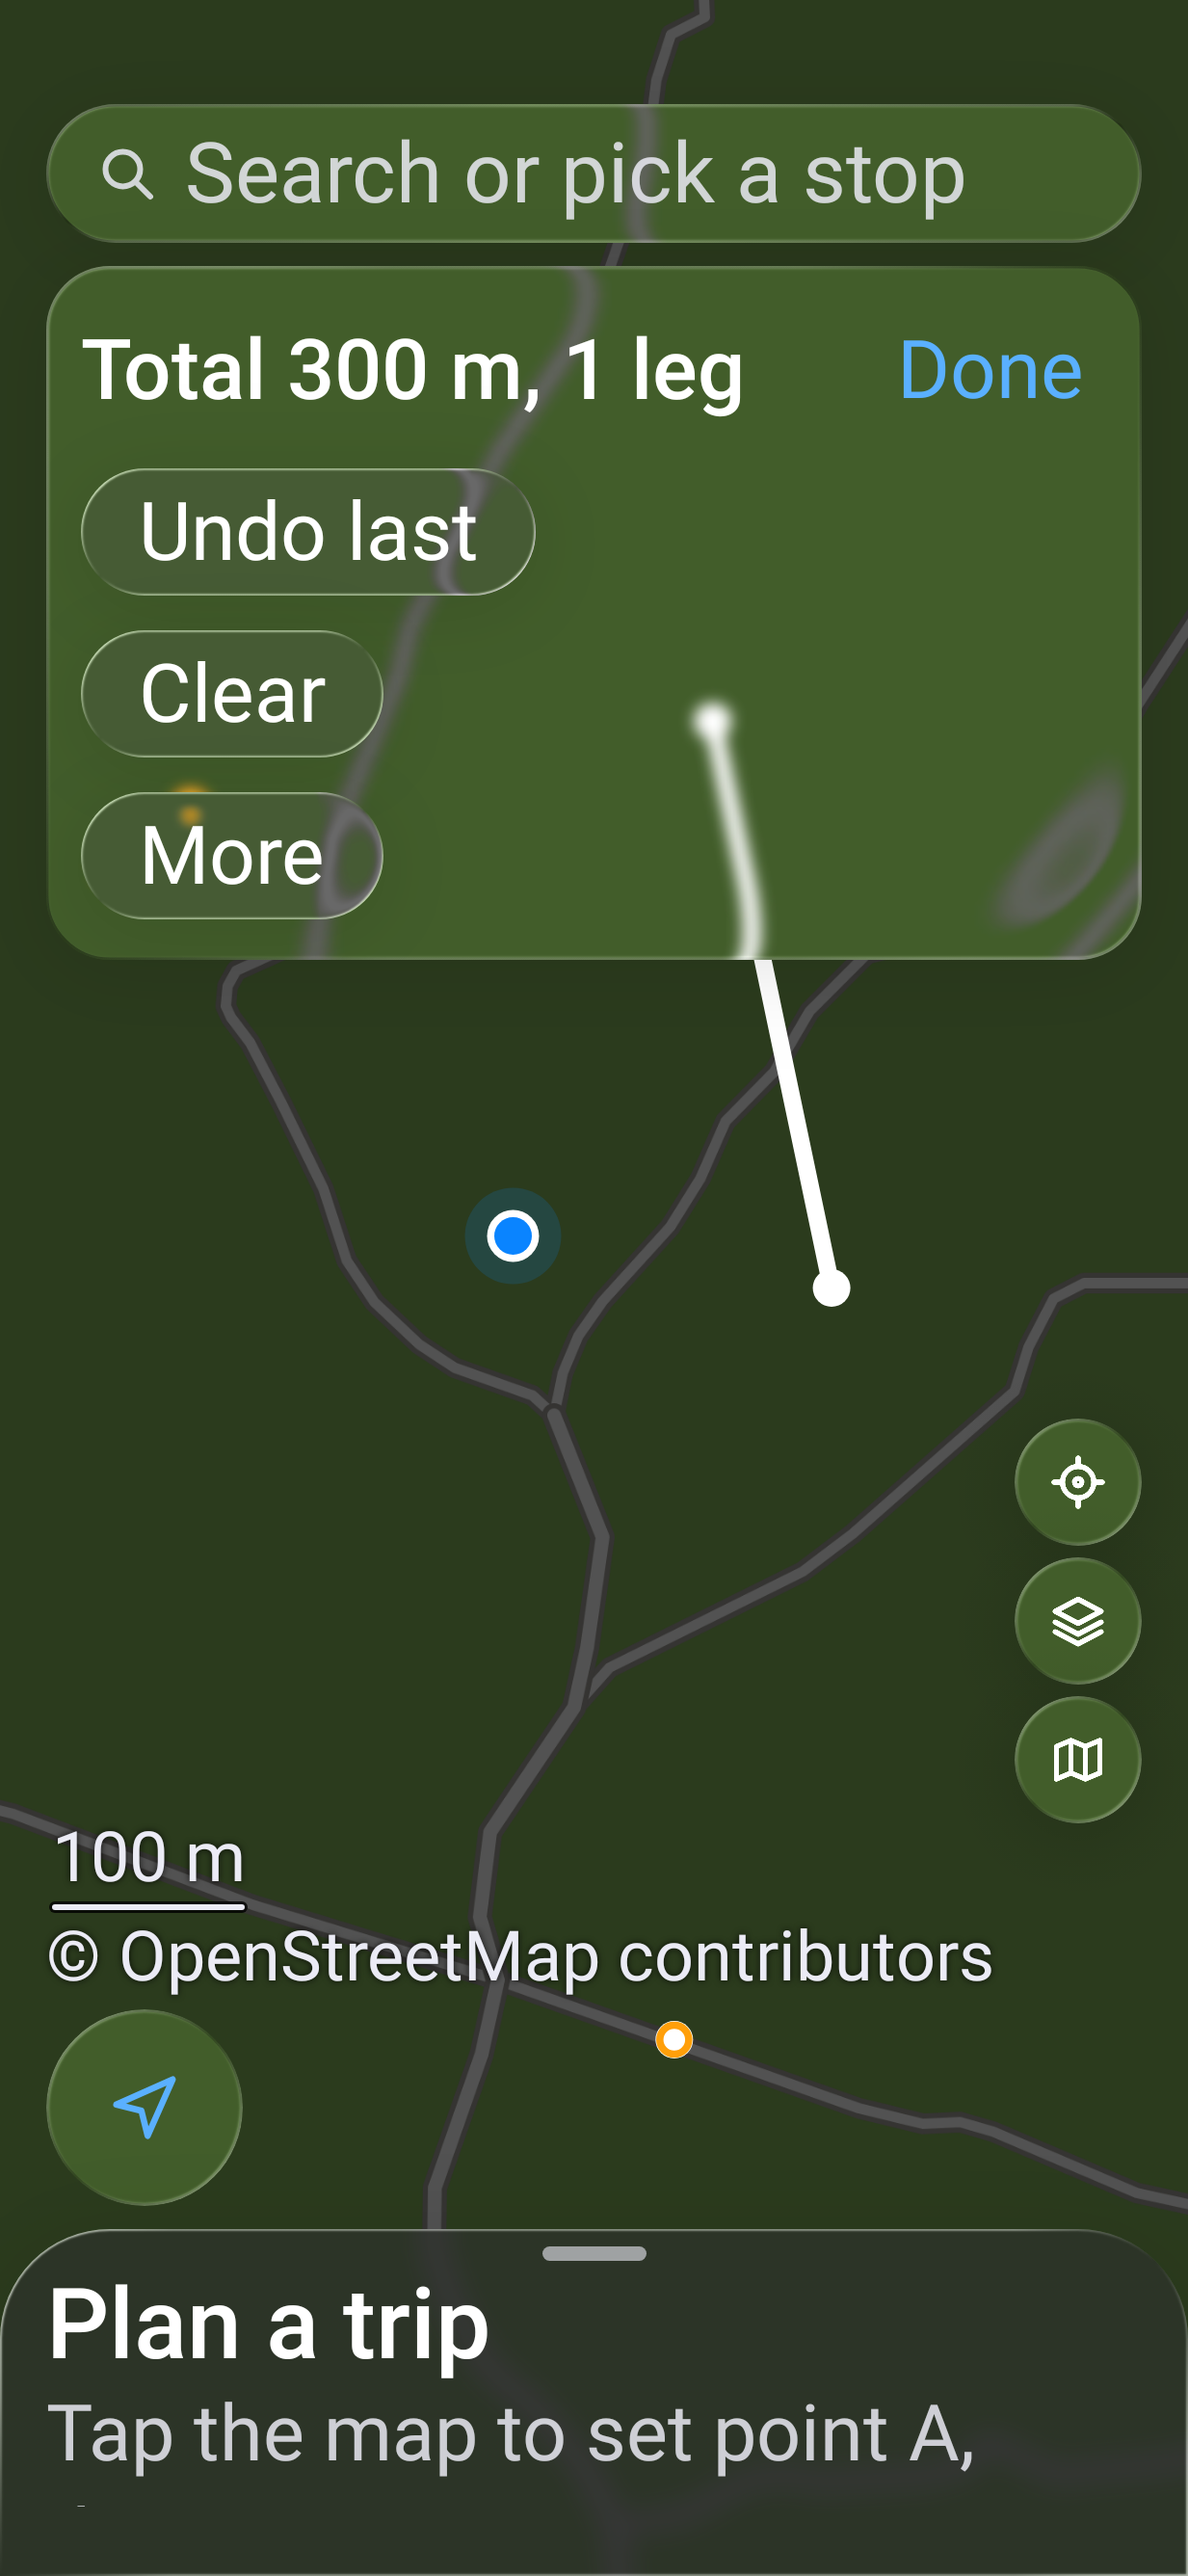
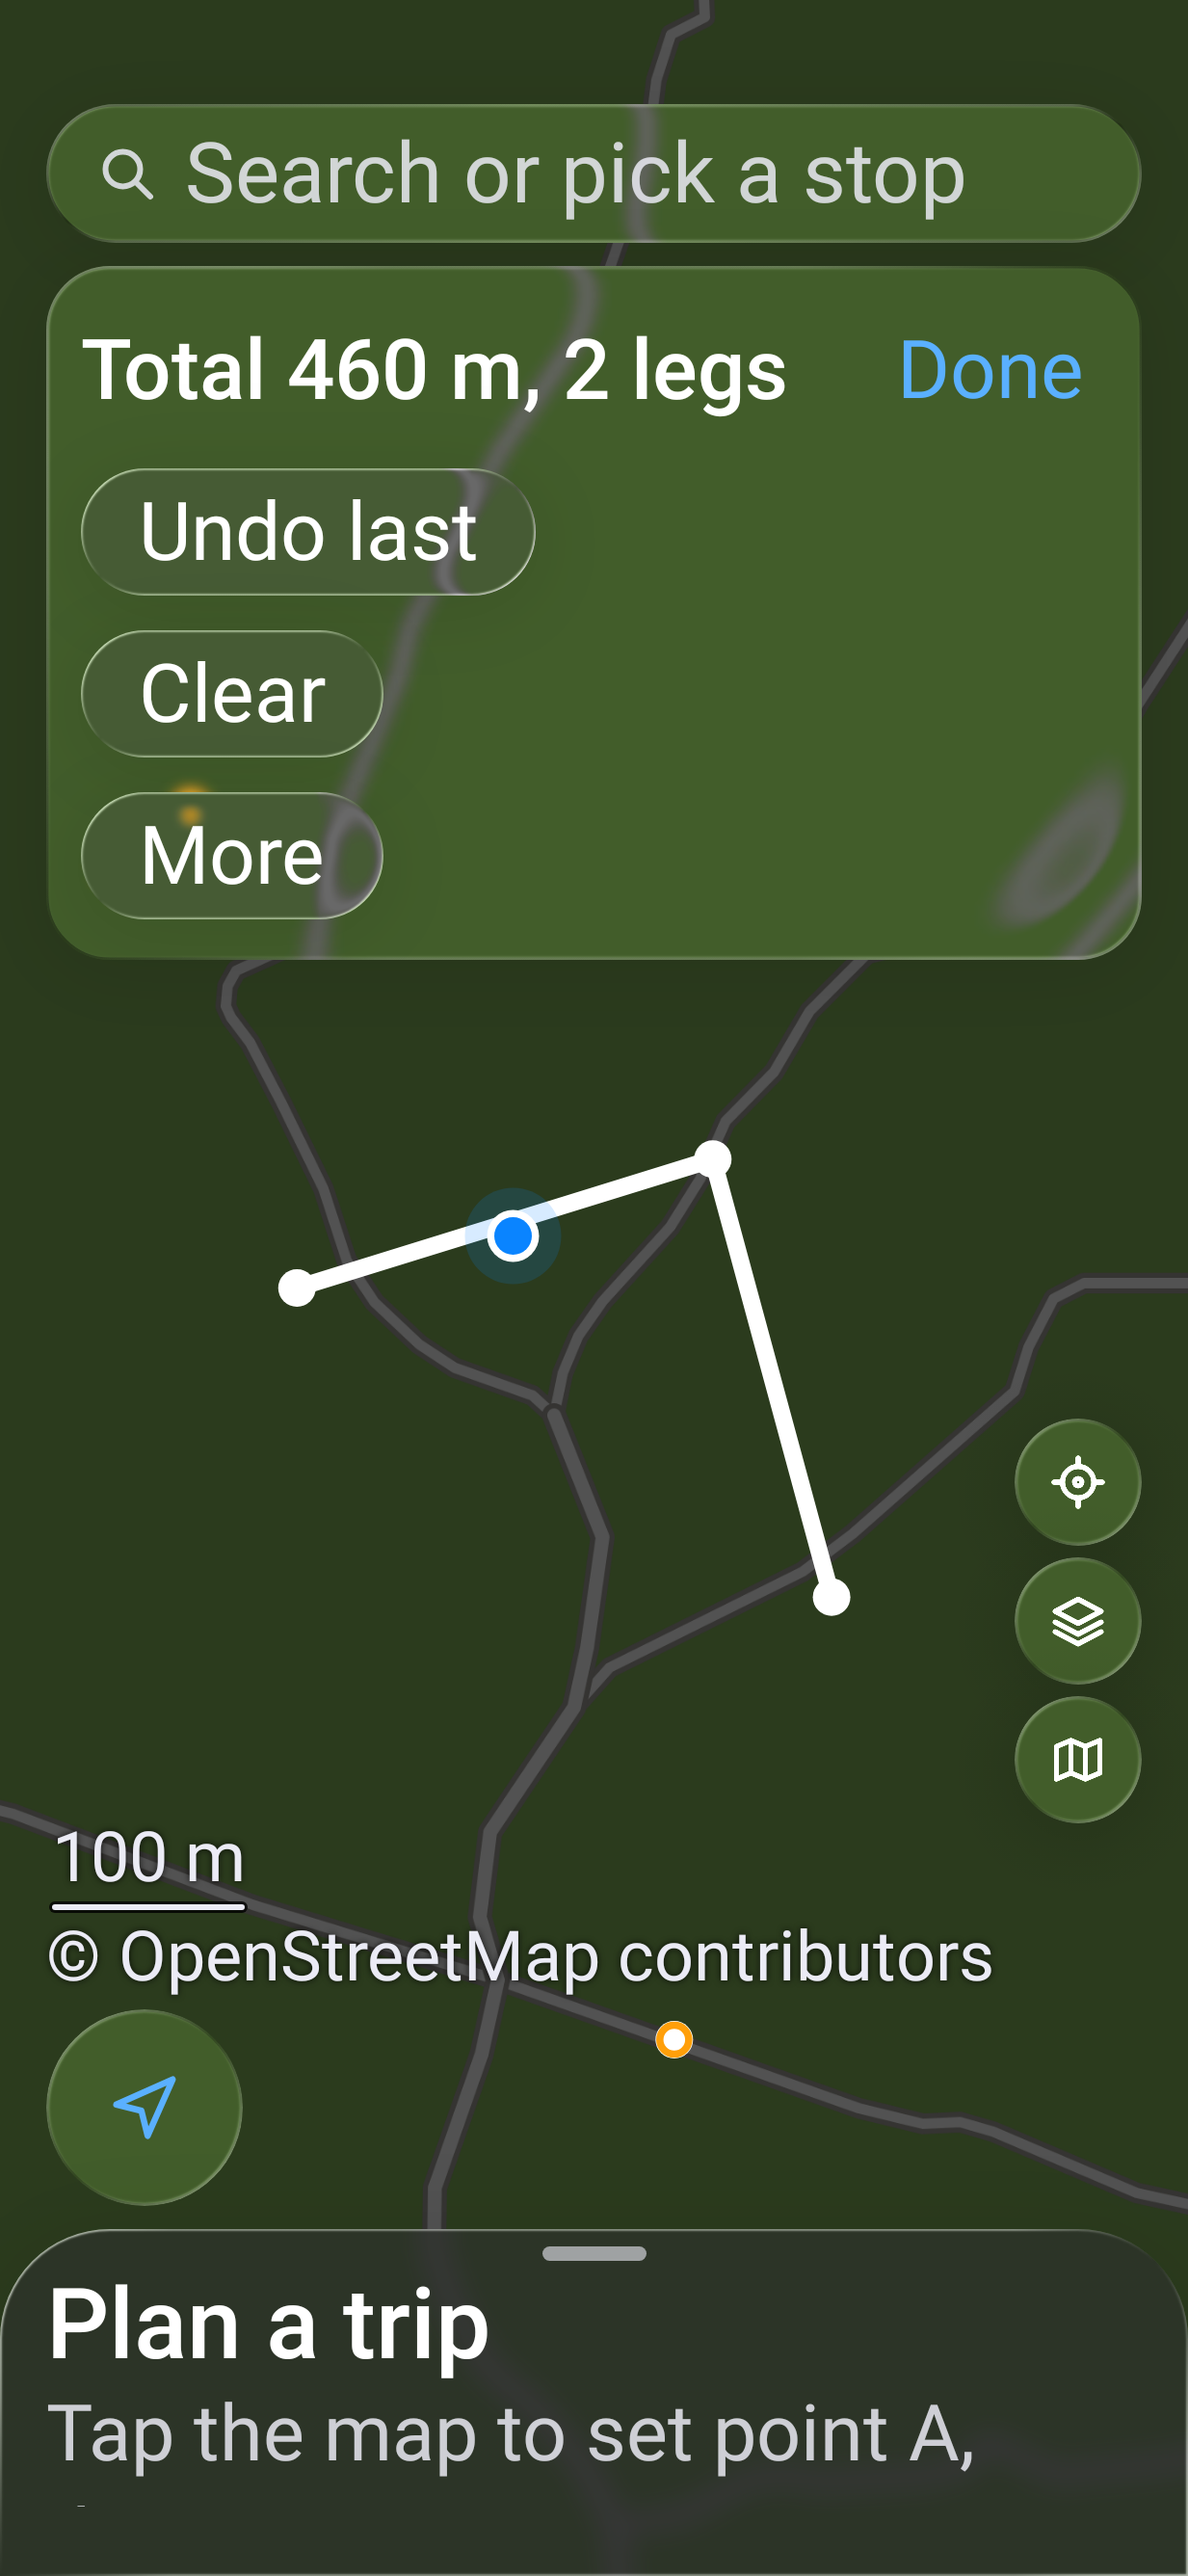
Stops: the fs2 measure shot taps below its taller card
Claude-Session: https://claude.ai/code/session_011osUp9MCesspyDRaLRPJDZ

diff --git a/android/stops/src/test/kotlin/dev/rosty/stops/tools/E79ShotTest.kt b/android/stops/src/test/kotlin/dev/rosty/stops/tools/E79ShotTest.kt
@@ -59,10 +59,13 @@ class E79ShotTest : ShotTest() {
         settleRust(800)
     }
 
-    private fun measureThreePoints(item: String = "Measure distance") {
+    private fun measureThreePoints(
+        item: String = "Measure distance",
+        points: List<Pair<Float, Float>> = listOf(0.25f to 0.32f, 0.6f to 0.28f, 0.7f to 0.5f),
+    ) {
         press(HomeTags.Layers)
         menu(item)
-        for ((fx, fy) in listOf(0.25f to 0.32f, 0.6f to 0.28f, 0.7f to 0.5f)) {
+        for ((fx, fy) in points) {
             compose.onNodeWithTag(HomeMapTag).performTouchInput { click(Offset(width * fx, height * fy)) }
             settleRust(800)
         }
@@ -77,7 +80,11 @@ class E79ShotTest : ShotTest() {
         toolShot("e7.9-measure-two-legs-tr") { measureThreePoints("Mesafe ölç") }
     }
 
-    @Test fun measureLargeText() = toolShot("e7.9-measure-two-legs-fs2", fontScale = 2f) { measureThreePoints() }
+    @Test fun measureLargeText() =
+        toolShot("e7.9-measure-two-legs-fs2", fontScale = 2f) {
+            // The fs2 card is taller: the taps go below it.
+            measureThreePoints(points = listOf(0.25f to 0.5f, 0.6f to 0.45f, 0.7f to 0.62f))
+        }
 
     @Test fun myLocationLargeText() =
         toolShot("e7.9-my-location-sheet-fs2", fontScale = 2f) {
